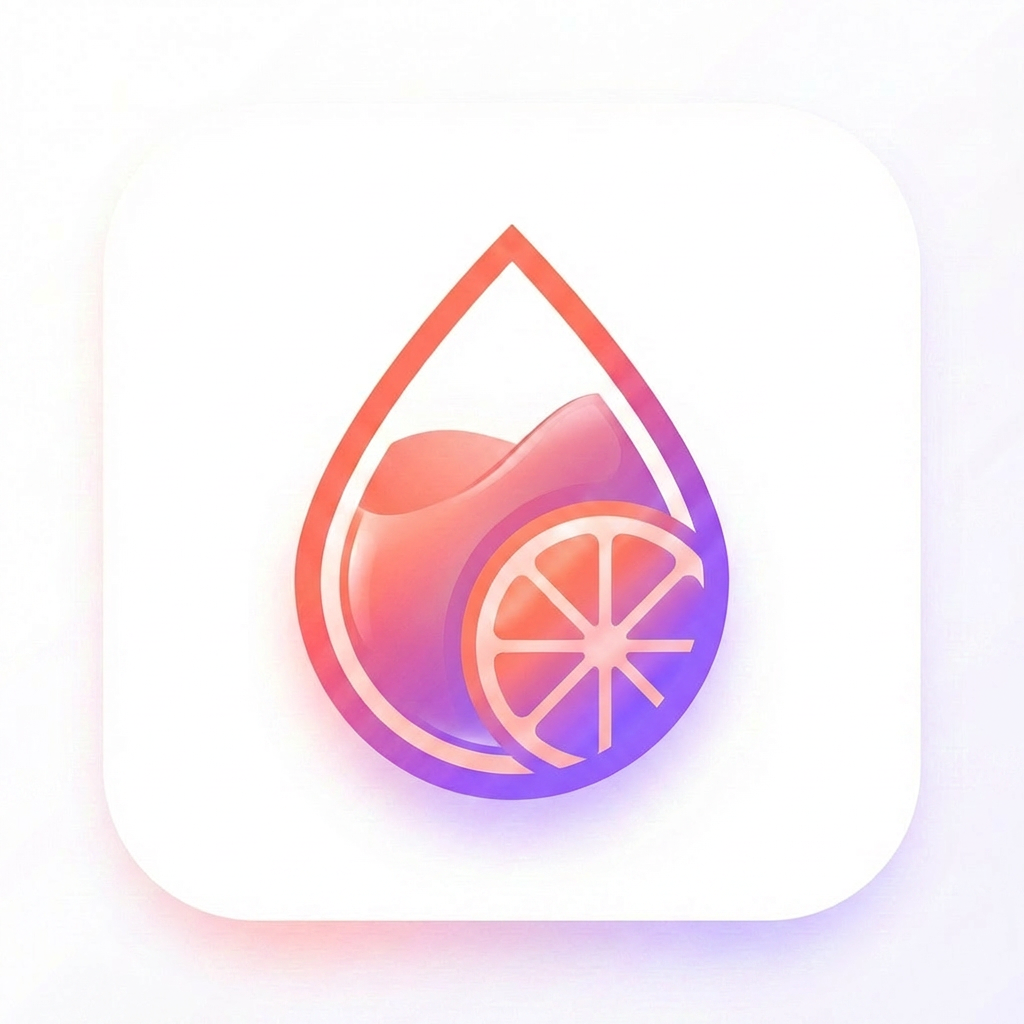
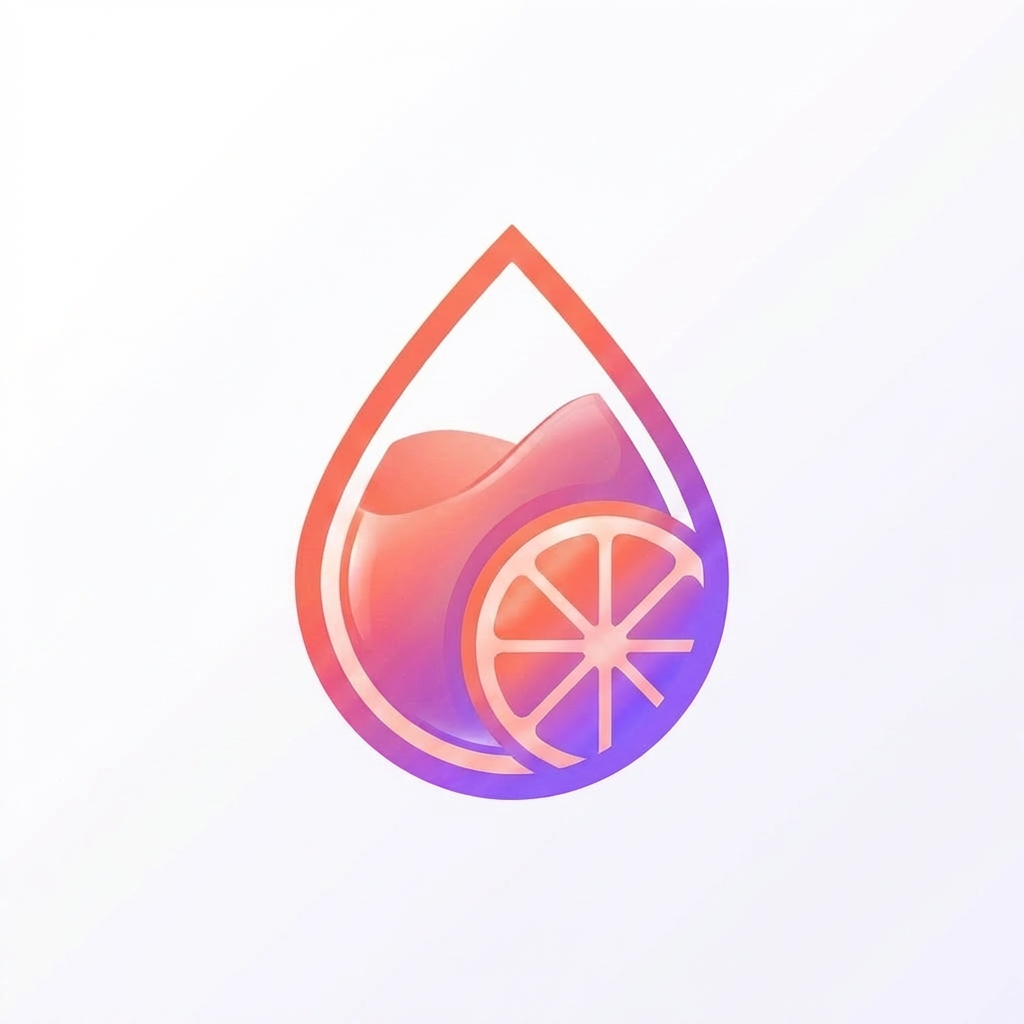
feat: 스플래시 노출 시간 보장 및 새 앱 아이콘 적용 (v1.5.0)
- 스플래시 최소 2.5초 노출 보장
- 인증 체크를 폰트 로딩과 병렬로 시작
- 폰트 + 인증 + 최소 시간 모두 만족 시 스플래시 숨김 → 빈 화면 깜빡임 제거
- authStore에 hasCheckedAuth 플래그 추가
- 새 앱 아이콘 (단순화된 그라데이션 물방울 로고)

diff --git a/app/_layout.tsx b/app/_layout.tsx
@@ -3,7 +3,7 @@ import { DarkTheme, DefaultTheme, ThemeProvider } from '@react-navigation/native
 import { useFonts } from 'expo-font';
 import { Stack, useRouter } from 'expo-router';
 import * as SplashScreen from 'expo-splash-screen';
-import { useEffect } from 'react';
+import { useEffect, useState } from 'react';
 import { Linking } from 'react-native';
 import 'react-native-reanimated';
 
@@ -40,11 +40,27 @@ export {
 // Prevent the splash screen from auto-hiding before asset loading is complete.
 SplashScreen.preventAutoHideAsync();
 
+// 스플래시 최소 노출 시간 (브랜딩 + 백그라운드 로딩 시간 확보)
+const SPLASH_MIN_DURATION_MS = 2500;
+
 export default function RootLayout() {
   const [loaded, error] = useFonts({
     SpaceMono: require('../assets/fonts/SpaceMono-Regular.ttf'),
     ...FontAwesome.font,
   });
+  const { hasCheckedAuth, checkAuthState } = useAuthStore();
+  const [minTimePassed, setMinTimePassed] = useState(false);
+
+  // 인증 상태 확인을 폰트 로딩과 병렬로 시작
+  useEffect(() => {
+    checkAuthState().catch((e) => console.error('앱 초기화 중 인증 상태 확인 실패:', e));
+  }, [checkAuthState]);
+
+  // 스플래시 최소 노출 시간 보장
+  useEffect(() => {
+    const timer = setTimeout(() => setMinTimePassed(true), SPLASH_MIN_DURATION_MS);
+    return () => clearTimeout(timer);
+  }, []);
 
   // Expo Router uses Error Boundaries to catch errors in the navigation tree.
   useEffect(() => {
@@ -54,15 +70,17 @@ export default function RootLayout() {
     }
   }, [error]);
 
+  const ready = loaded && hasCheckedAuth && minTimePassed;
+
   useEffect(() => {
-    if (loaded) {
+    if (ready) {
       SplashScreen.hideAsync().catch(() => {
         // 스플래시 스크린 숨기기 실패해도 무시
       });
     }
-  }, [loaded]);
+  }, [ready]);
 
-  if (!loaded) {
+  if (!ready) {
     return null;
   }
 
@@ -72,22 +90,8 @@ export default function RootLayout() {
 function RootLayoutNav() {
   const colorScheme = useColorScheme();
   const router = useRouter();
-  const { isAuthenticated, checkAuthState, isLoading } = useAuthStore();
+  const { isAuthenticated, checkAuthState } = useAuthStore();
   const { initializeNotifications } = useNotificationStore();
-
-  useEffect(() => {
-    // 앱 시작 시 인증 상태 확인 (한 번만)
-    const initializeAuth = async () => {
-      try {
-        await checkAuthState();
-      } catch (error) {
-        console.error('앱 초기화 중 인증 상태 확인 실패:', error);
-        // 실패해도 앱은 계속 실행
-      }
-    };
-
-    initializeAuth();
-  }, [checkAuthState]);
 
   useEffect(() => {
     // 사용자가 인증된 경우에만 알림 시스템 초기화
@@ -301,11 +305,6 @@ function RootLayoutNav() {
       subscription?.unsubscribe();
     };
   }, [router, checkAuthState]);
-
-  // 로딩 중에는 null 반환 (스플래시 스크린 유지)
-  if (isLoading) {
-    return null;
-  }
 
   return (
     <CustomThemeProvider>

diff --git a/src/stores/authStore.ts b/src/stores/authStore.ts
@@ -10,6 +10,7 @@ interface AuthState {
   user: User | null;
   isAuthenticated: boolean;
   isLoading: boolean;
+  hasCheckedAuth: boolean;
   hasCompletedOnboarding: boolean;
 
   // Actions
@@ -58,6 +59,7 @@ export const useAuthStore = create<AuthState>()(
       user: null,
       isAuthenticated: false,
       isLoading: false,
+      hasCheckedAuth: false,
       hasCompletedOnboarding: false,
 
       setUser: (user: User | null) => {
@@ -82,7 +84,7 @@ export const useAuthStore = create<AuthState>()(
           // Supabase가 설정되지 않은 경우 로컬 상태만 확인
           if (!isSupabaseConfigured()) {
             console.warn('Supabase가 설정되지 않아 로컬 인증 상태만 확인합니다.');
-            set({ user: null, isAuthenticated: false, isLoading: false });
+            set({ user: null, isAuthenticated: false, isLoading: false, hasCheckedAuth: true });
             return;
           }
 
@@ -95,14 +97,14 @@ export const useAuthStore = create<AuthState>()(
           const user = await Promise.race([authPromise, timeoutPromise]);
 
           if (user) {
-            set({ user: user as User, isAuthenticated: true, isLoading: false });
+            set({ user: user as User, isAuthenticated: true, isLoading: false, hasCheckedAuth: true });
           } else {
-            set({ user: null, isAuthenticated: false, isLoading: false });
+            set({ user: null, isAuthenticated: false, isLoading: false, hasCheckedAuth: true });
           }
         } catch (error) {
           console.error('인증 상태 확인 실패:', error);
           // 인증 실패해도 앱은 계속 실행되도록 처리
-          set({ user: null, isAuthenticated: false, isLoading: false });
+          set({ user: null, isAuthenticated: false, isLoading: false, hasCheckedAuth: true });
         }
       },
 